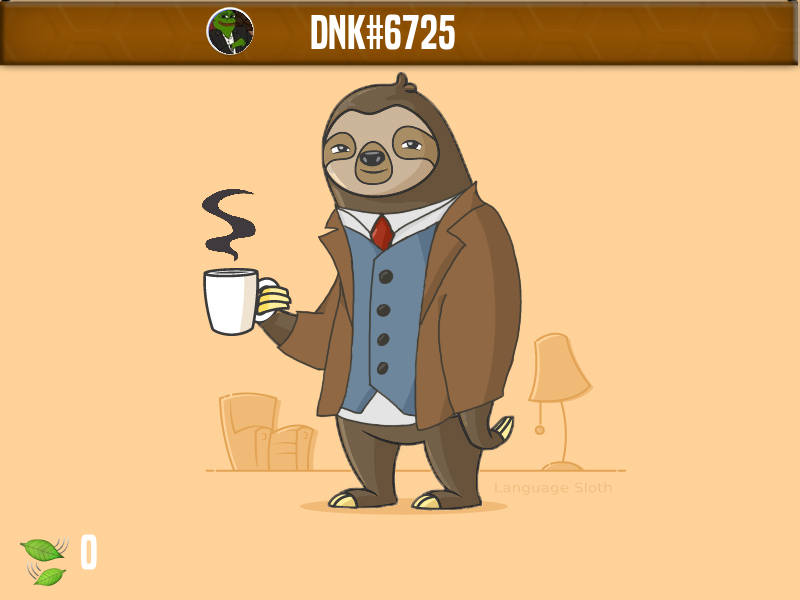
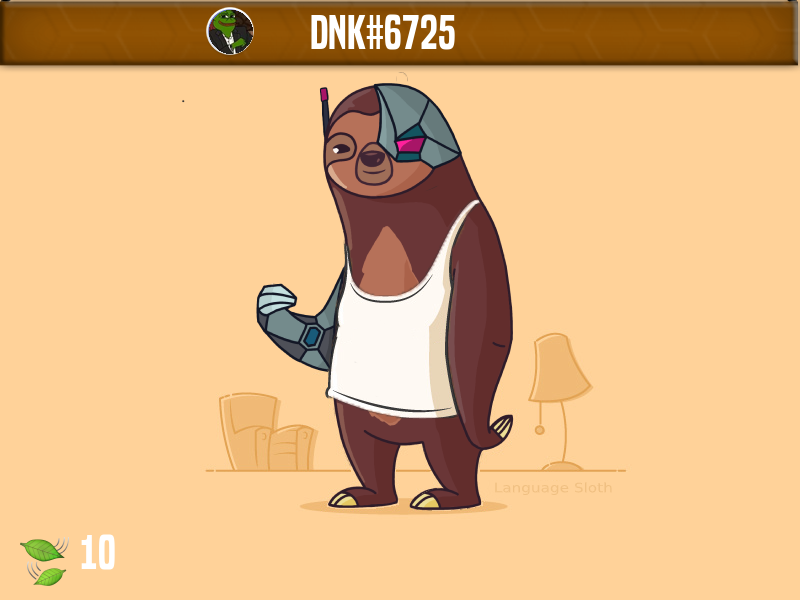
finishing the sloth class system

Changed region(s): [[0.25, 0.12, 0.6562, 0.87], [0.0938, 0.87, 0.1562, 0.96], [0.25, 0.3, 0.3125, 0.36]]

diff --git a/cogs/slothcurrency.py b/cogs/slothcurrency.py
@@ -631,9 +631,13 @@ class SlothCurrency(commands.Cog):
             else:
                 return await ctx.send(f"**{member} doesn't have an account yet!**", delete_after=3)
 
+        if user_info[0][7].lower() == 'default':
+            return await ctx.send(f"**{member} has a default Sloth class, I cannot show their profile!**")
+
         small = ImageFont.truetype("built titling sb.ttf", 45)
         background = Image.open(await self.get_user_specific_type_item(member.id, 'background'))
-        sloth = Image.open(await self.get_user_specific_type_item(member.id, 'sloth'))
+        # sloth = Image.open(await self.get_user_specific_type_item(member.id, 'sloth'))
+        sloth = Image.open(f"./sloth_custom_images/sloth/{user_info[0][7].title()}.png")
         body = Image.open(await self.get_user_specific_type_item(member.id, 'body'))
         hand = Image.open(await self.get_user_specific_type_item(member.id, 'hand'))
         foot = Image.open(await self.get_user_specific_type_item(member.id, 'foot'))

diff --git a/main.py b/main.py
@@ -125,11 +125,11 @@ async def on_command_error(ctx, error):
 	print('='*10)
 	print(f"ERROR: {error} | Class: {error.__class__} | Cause: {error.__cause__}")
 	print('='*10)
-	# error_log = client.get_channel(error_log_channel_id)
-	# if error_log:
-	# 	await error_log.send('='*10)
-	# 	await error_log.send(f"ERROR: {error} | Class: {error.__class__} | Cause: {error.__cause__}")
-	# 	await error_log.send('='*10)
+	error_log = client.get_channel(error_log_channel_id)
+	if error_log:
+		await error_log.send('='*10)
+		await error_log.send(f"ERROR: {error} | Class: {error.__class__} | Cause: {error.__cause__}")
+		await error_log.send('='*10)
 
 
 # Members status update

diff --git a/cogs/slothreputation.py b/cogs/slothreputation.py
@@ -92,6 +92,7 @@ class SlothReputation(commands.Cog):
         embed.add_field(name="__**Participated in**__", value=f"{ucur[0][3]} classes.", inline=True)
         embed.add_field(name="__**Rewarded in**__", value=f"{ucur[0][4]} classes.", inline=True)
         embed.add_field(name="__**Hosted**__", value=f"{ucur[0][5]} classes.", inline=True)
+        embed.add_field(name="__**Sloth CLass**__", value=ucur[0][7], inline=True)
         embed.set_thumbnail(url=member.avatar_url)
         embed.set_footer(text=f"{member}", icon_url=member.avatar_url)
         return await ctx.send(content=None, embed=embed)
